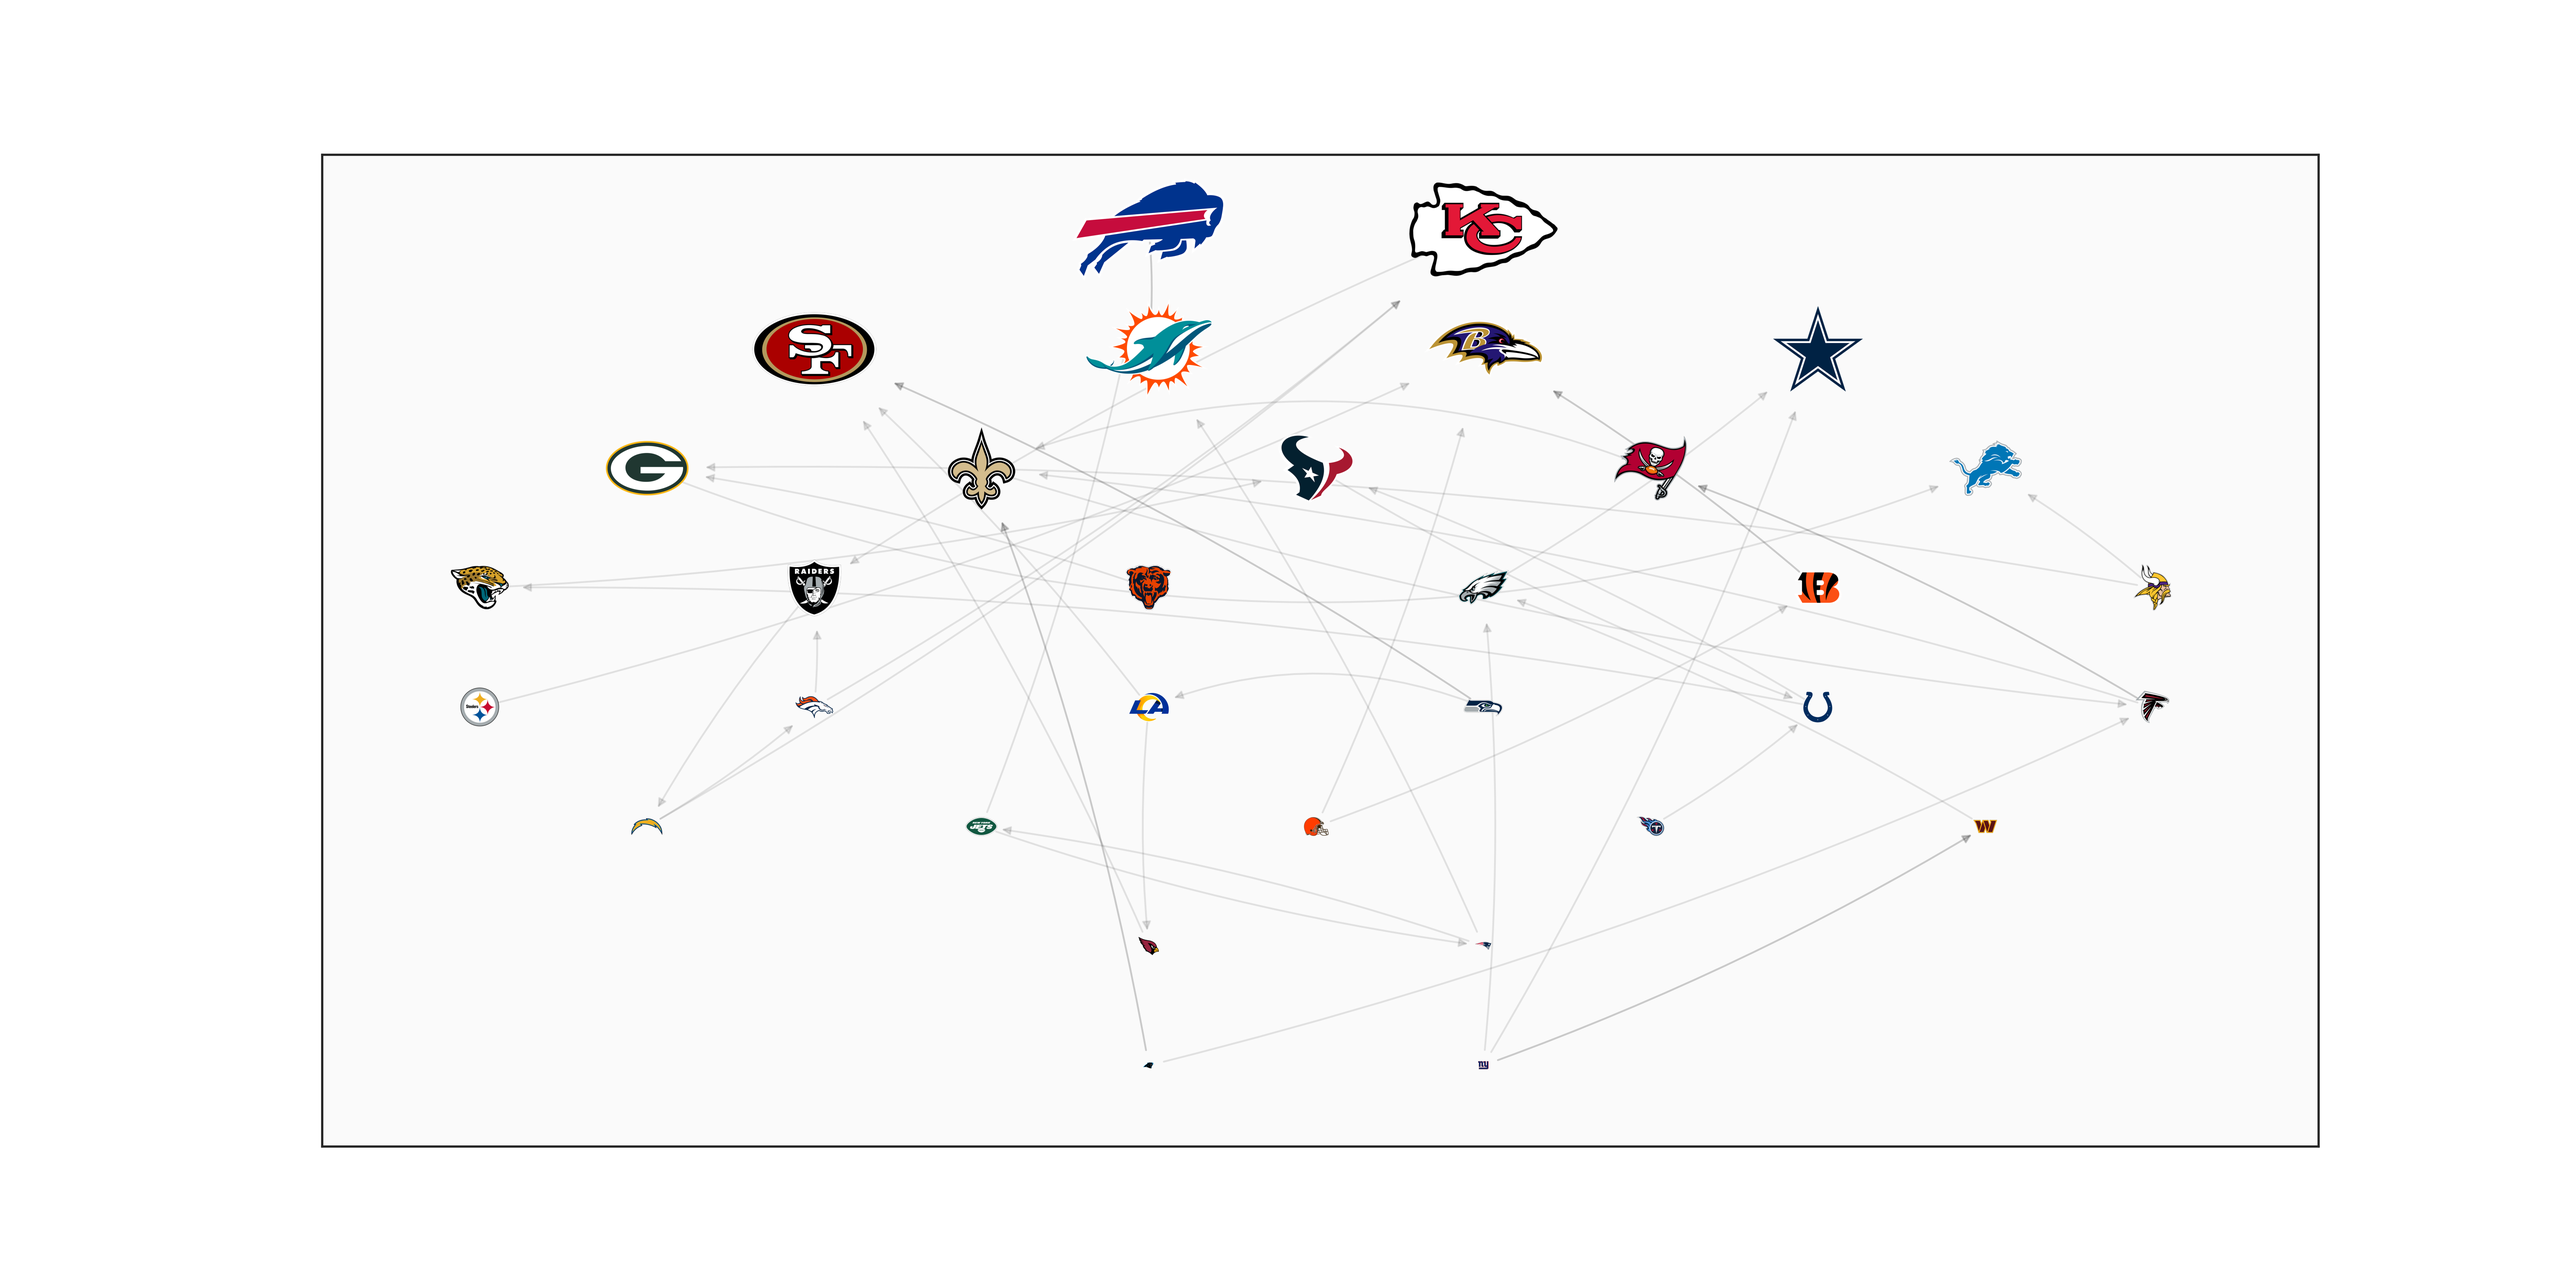
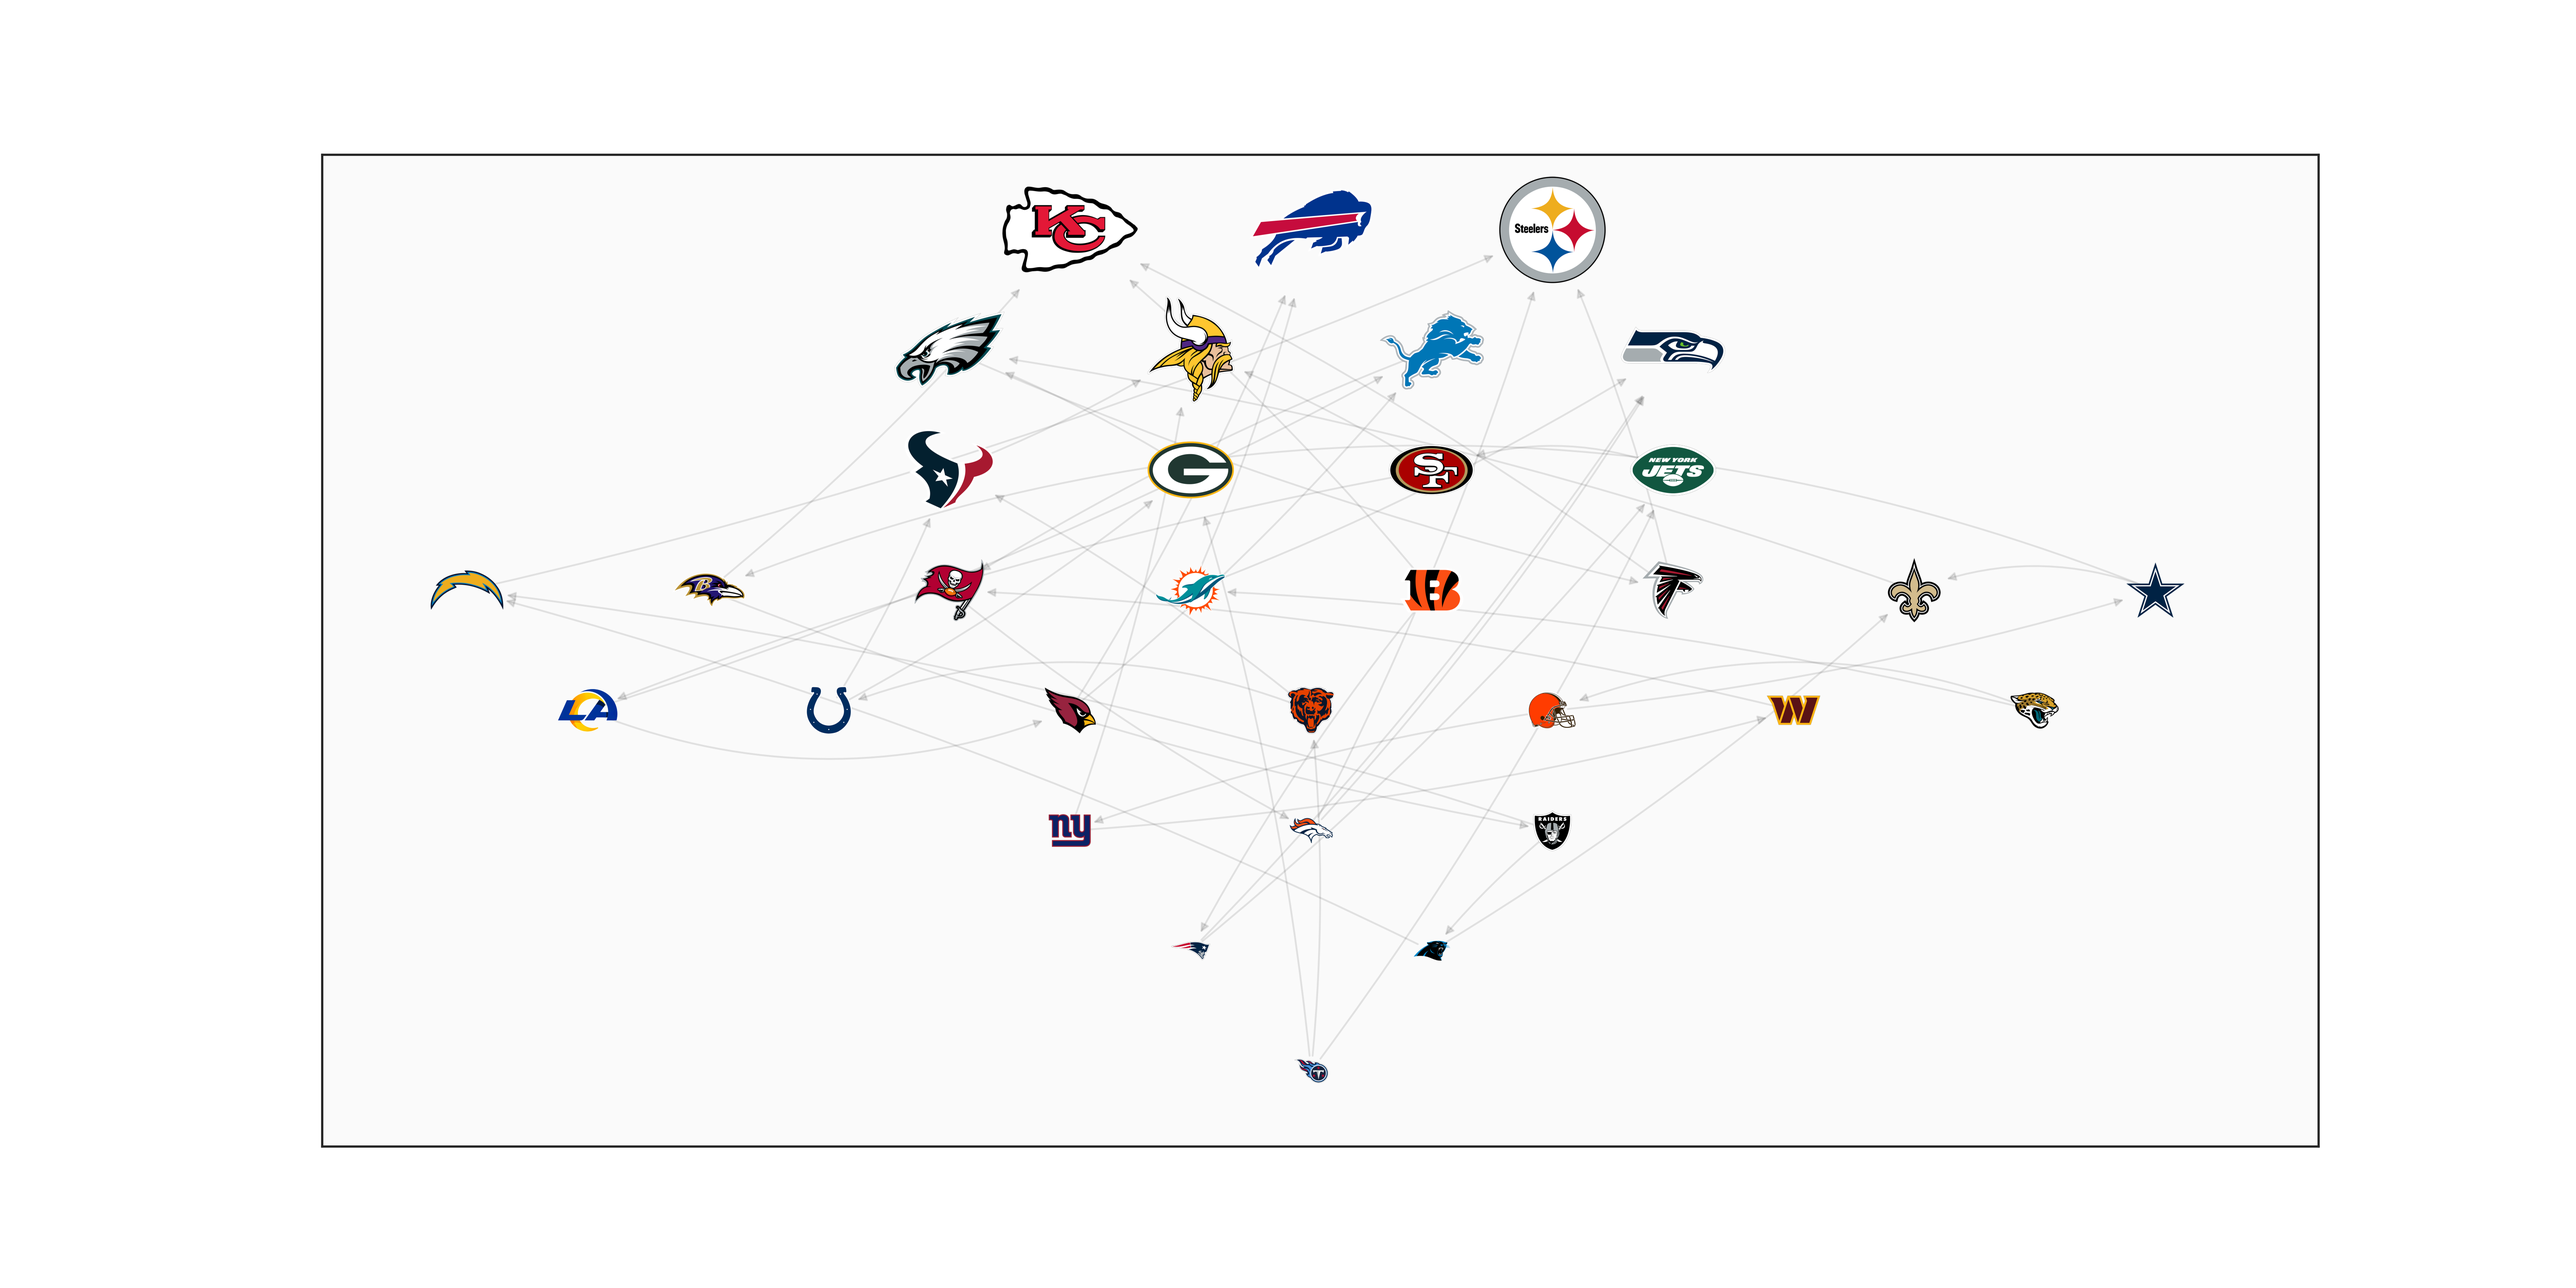
Add files via upload

diff --git a/Pred/poibin.py b/Pred/poibin.py
@@ -1,0 +1,232 @@
+import collections
+import numpy as np
+
+
+class PoiBin(object):
+    """Poisson Binomial distribution for random variables.
+
+    This class implements the Poisson Binomial distribution for Bernoulli
+    trials with different success probabilities. The distribution describes
+    thus a random variable that is the sum of independent and not identically
+    distributed single Bernoulli random variables.
+
+    The class offers methods for calculating the probability mass function, the
+    cumulative distribution function, and p-values for right-sided testing.
+    """
+
+    def __init__(self, probabilities):
+        """Initialize the class and calculate the ``pmf`` and ``cdf``.
+
+        :param probabilities: sequence of success probabilities :math:`p_i \\in
+            [0, 1] \\forall i \\in [0, N]` for :math:`N` independent but not
+            identically distributed Bernoulli random variables
+        :type probabilities: numpy.array
+        """
+        self.success_probabilities = np.array(probabilities)
+        self.number_trials = self.success_probabilities.size
+        self.check_input_prob()
+        self.omega = 2 * np.pi / (self.number_trials + 1)
+        self.pmf_list = self.get_pmf_xi()
+        self.cdf_list = self.get_cdf(self.pmf_list)
+
+# ------------------------------------------------------------------------------
+# Methods for the Poisson Binomial Distribution
+# ------------------------------------------------------------------------------
+
+    def pmf(self, number_successes):
+        """Calculate the probability mass function ``pmf`` for the input values.
+
+        The ``pmf`` is defined as
+
+        .. math::
+
+            pmf(k) = Pr(X = k), k = 0, 1, ..., n.
+
+        :param number_successes: number of successful trials for which the
+            probability mass function is calculated
+        :type number_successes: int or list of integers
+        """
+        self.check_rv_input(number_successes)
+        return self.pmf_list[number_successes]
+
+    def cdf(self, number_successes):
+        """Calculate the cumulative distribution function for the input values.
+
+        The cumulative distribution function ``cdf`` for a number ``k`` of
+        successes is defined as
+
+        .. math::
+
+            cdf(k) = Pr(X \\leq k), k = 0, 1, ..., n.
+
+        :param number_successes: number of successful trials for which the
+            cumulative distribution function is calculated
+        :type number_successes: int or list of integers
+        """
+        self.check_rv_input(number_successes)
+        return self.cdf_list[number_successes]
+
+    def pval(self, number_successes):
+        """Return the p-values corresponding to the input numbers of successes.
+
+        The p-values for right-sided testing are defined as
+
+        .. math::
+
+            pval(k) = Pr(X \\geq k ),  k = 0, 1, ..., n.
+
+        .. note::
+
+            Since :math:`cdf(k) = Pr(X <= k)`, the function returns
+
+            .. math::
+
+                1 - cdf(X < k) & = 1 - cdf(X <= k - 1)
+                               & = 1 - cdf(X <= k) + pmf(X = k),
+
+                               k = 0, 1, .., n.
+
+        :param number_successes: number of successful trials for which the
+            p-value is calculated
+        :type number_successes: int, numpy.array, or list of integers
+        """
+        self.check_rv_input(number_successes)
+        i = 0
+        try:
+            isinstance(number_successes, collections.Iterable)
+            pvalues = np.array(number_successes, dtype='float')
+            # if input is iterable (list, numpy.array):
+            for k in number_successes:
+                pvalues[i] = 1. - self.cdf(k) + self.pmf(k)
+                i += 1
+            return pvalues
+        except TypeError:
+            # if input is an integer:
+            if number_successes == 0:
+                return 1
+            else:
+                return 1 - self.cdf(number_successes - 1)
+
+# ------------------------------------------------------------------------------
+# Methods to obtain pmf and cdf
+# ------------------------------------------------------------------------------
+
+    def get_cdf(self, event_probabilities):
+        """Return the values of the cumulative density function.
+
+        Return a list which contains all the values of the cumulative
+        density function for :math:`i = 0, 1, ..., n`.
+
+        :param event_probabilities: array of single event probabilities
+        :type event_probabilities: numpy.array
+        """
+        cdf = np.empty(self.number_trials + 1)
+        cdf[0] = event_probabilities[0]
+        for i in range(1, self.number_trials + 1):
+            cdf[i] = cdf[i - 1] + event_probabilities[i]
+        return cdf
+
+    def get_pmf_xi(self):
+        """Return the values of the variable ``xi``.
+
+        The components ``xi`` make up the probability mass function, i.e.
+        :math:`\\xi(k) = pmf(k) = Pr(X = k)`.
+        """
+        chi = np.empty(self.number_trials + 1, dtype=complex)
+        chi[0] = 1
+        half_number_trials = int(
+            self.number_trials / 2 + self.number_trials % 2)
+        # set first half of chis:
+        chi[1:half_number_trials + 1] = self.get_chi(
+            np.arange(1, half_number_trials + 1))
+        # set second half of chis:
+        chi[half_number_trials + 1:self.number_trials + 1] = np.conjugate(
+            chi[1:self.number_trials - half_number_trials + 1] [::-1])
+        chi /= self.number_trials + 1
+        xi = np.fft.fft(chi)
+        if self.check_xi_are_real(xi):
+            xi = xi.real
+        else:
+            raise TypeError("pmf / xi values have to be real.")
+        xi += np.finfo(type(xi[0])).eps
+        return xi
+
+    def get_chi(self, idx_array):
+        """Return the values of ``chi`` for the specified indices.
+
+        :param idx_array: array of indices for which the ``chi`` values should
+            be calculated
+        :type idx_array: numpy.array
+        """
+        # get_z:
+        exp_value = np.exp(self.omega * idx_array * 1j)
+        xy = 1 - self.success_probabilities + \
+            self.success_probabilities * exp_value[:, np.newaxis]
+        # sum over the principal values of the arguments of z:
+        argz_sum = np.arctan2(xy.imag, xy.real).sum(axis=1)
+        # get d value:
+        exparg = np.log(np.abs(xy)).sum(axis=1)
+        d_value = np.exp(exparg)
+        # get chi values:
+        chi = d_value * np.exp(argz_sum * 1j)
+        return chi
+
+# ------------------------------------------------------------------------------
+# Auxiliary functions
+# ------------------------------------------------------------------------------
+
+    def check_rv_input(self, number_successes):
+        """Assert that the input values ``number_successes`` are OK.
+
+        The input values ``number_successes`` for the random variable have to be
+        integers, greater or equal to 0, and smaller or equal to the total
+        number of trials ``self.number_trials``.
+
+        :param number_successes: number of successful trials
+        :type number_successes: int or list of integers """
+        try:
+            for k in number_successes:
+                assert (type(k) == int or type(k) == np.int64), \
+                        "Values in input list must be integers"
+                assert k >= 0, 'Values in input list cannot be negative.'
+                assert k <= self.number_trials, \
+                    'Values in input list must be smaller or equal to the ' \
+                    'number of input probabilities "n"'
+        except TypeError:
+            assert (type(number_successes) == int or \
+                type(number_successes) == np.int64), \
+                'Input value must be an integer.'
+            assert number_successes >= 0, "Input value cannot be negative."
+            assert number_successes <= self.number_trials, \
+                'Input value cannot be greater than ' + str(self.number_trials)
+        return True
+
+    @staticmethod
+    def check_xi_are_real(xi_values):
+        """Check whether all the ``xi``s have imaginary part equal to 0.
+
+        The probabilities :math:`\\xi(k) = pmf(k) = Pr(X = k)` have to be
+        positive and must have imaginary part equal to zero.
+
+        :param xi_values: single event probabilities
+        :type xi_values: complex
+        """
+        # return np.all(xi_values.imag <= np.finfo(float).eps)
+        return np.all(xi_values.imag <= 2.2e-15)
+
+    def check_input_prob(self):
+        """Check that all the input probabilities are in the interval [0, 1]."""
+        if self.success_probabilities.shape != (self.number_trials,):
+            raise ValueError(
+                "Input must be an one-dimensional array or a list.")
+        # if not np.all(self.success_probabilities >= 0):
+        #     raise ValueError("Input probabilities have to be non negative.")
+        # if not np.all(self.success_probabilities <= 1):
+        #     raise ValueError("Input probabilities have to be smaller than 1.")
+
+################################################################################
+# Main
+################################################################################
+
+if __name__ == "__main__":
+    pass

diff --git a/Pred/helper.py b/Pred/helper.py
@@ -10,6 +10,8 @@ import numpy as np
 import pandas as pd
 from scipy.stats import norm
 from scipy.stats import poisson
+from sklearn.cluster import KMeans
+from sklearn.metrics import calinski_harabasz_score
 
 
 class Helper:
@@ -153,3 +155,28 @@ class Helper:
         coef_df.index = [index_to_teams.get(index) for index in coef_df.index]
         coef_df = coef_df.sort_values(by='BT', ascending=False)
         return coef_df
+
+    def get_tiers(self):
+        with warnings.catch_warnings():
+            warnings.simplefilter("ignore")
+
+            bts = self.team_df['Bayes BT']
+            X = bts.values.reshape(-1, 1)
+
+            tier_count_dict = dict()
+            for potential_num_tiers in range(4, 9):
+                k_means = KMeans(n_clusters=potential_num_tiers).fit(X)
+                tier_count_dict[potential_num_tiers] = calinski_harabasz_score(X, k_means.labels_)
+
+            sorted_tier_counts = list(sorted(tier_count_dict.items(), key=lambda t: t[1], reverse=True))
+            num_tiers = sorted_tier_counts[0][0]
+            k_means = KMeans(n_clusters=num_tiers).fit(X)
+
+            self.team_df['Cluster'] = k_means.labels_
+
+            cluster_averages = self.team_df.groupby('Cluster').mean()
+            cluster_averages = cluster_averages.sort_values(by='Bayes BT', ascending=False)
+            tiers = {cluster: tier for cluster, tier in zip(cluster_averages.index, range(num_tiers, 0, -1))}
+            self.team_df['Tier'] = self.team_df['Cluster'].map(tiers)
+
+            return {team: row['Tier'] for team, row in self.team_df.iterrows()}

diff --git a/Pred/season.py b/Pred/season.py
@@ -242,6 +242,10 @@ def fit_bt():
     for team_name in team_df.index:
         team_df.at[team_name, 'BT Pct'] = bt_norm.cdf(bayes_bts.get(team_name, 0))
 
+    helper = Helper(team_df, individual_df, graph)
+    tiers = helper.get_tiers()
+    for team, tier in tiers.items():
+        team_df.at[team, 'Tier'] = tier
     team_df = team_df.fillna(0)
 
 
@@ -393,7 +397,7 @@ def order_predictions(model, pt, games_to_predict, verbose=False):
                   str(round(higher_wp * 17)).ljust(2), 'win team, the', lower_name.ljust(justify_width),
                   'are on pace to be a', str(round(lower_wp * 17)), 'win team')
 
-        # le.plot_matchup(favored_team, underdog, prob, rounded_line if location == 'at home' else -rounded_line)
+        le.plot_matchup(favored_team, underdog, prob, rounded_line if location == 'at home' else -rounded_line)
         print()
 
     print()

diff --git a/Pred/evaluation.py b/Pred/evaluation.py
@@ -411,8 +411,7 @@ class LeagueEvaluator:
         max_bt = self.team_df['Bayes BT'].max()
         min_bt = self.team_df['Bayes BT'].min()
         bt_dev = statistics.stdev(self.team_df['Bayes BT'])
-        subset = {team: np.digitize(row['Bayes BT'], np.arange(min_bt, max_bt, bt_dev / 2)) for team, row in
-                  self.team_df.iterrows()}
+        subset = {team: row['Tier'] for team, row in self.team_df.iterrows()}
 
         nx.set_node_attributes(nfl, bts, 'Bayes BT')
         nx.set_node_attributes(nfl, primary, 'Primary')

diff --git a/Pred/playoff_chances.py b/Pred/playoff_chances.py
@@ -6,7 +6,7 @@ import pandas as pd
 from scipy.stats import rankdata
 
 from Projects.nfl.NFL_Prediction.Pred import league_structure
-from Projects.nfl.NFL_Prediction.Redo.poibin import PoiBin
+from Projects.nfl.NFL_Prediction.Pred.poibin import PoiBin
 from Projects.play.bracket import Bracket
 
 
